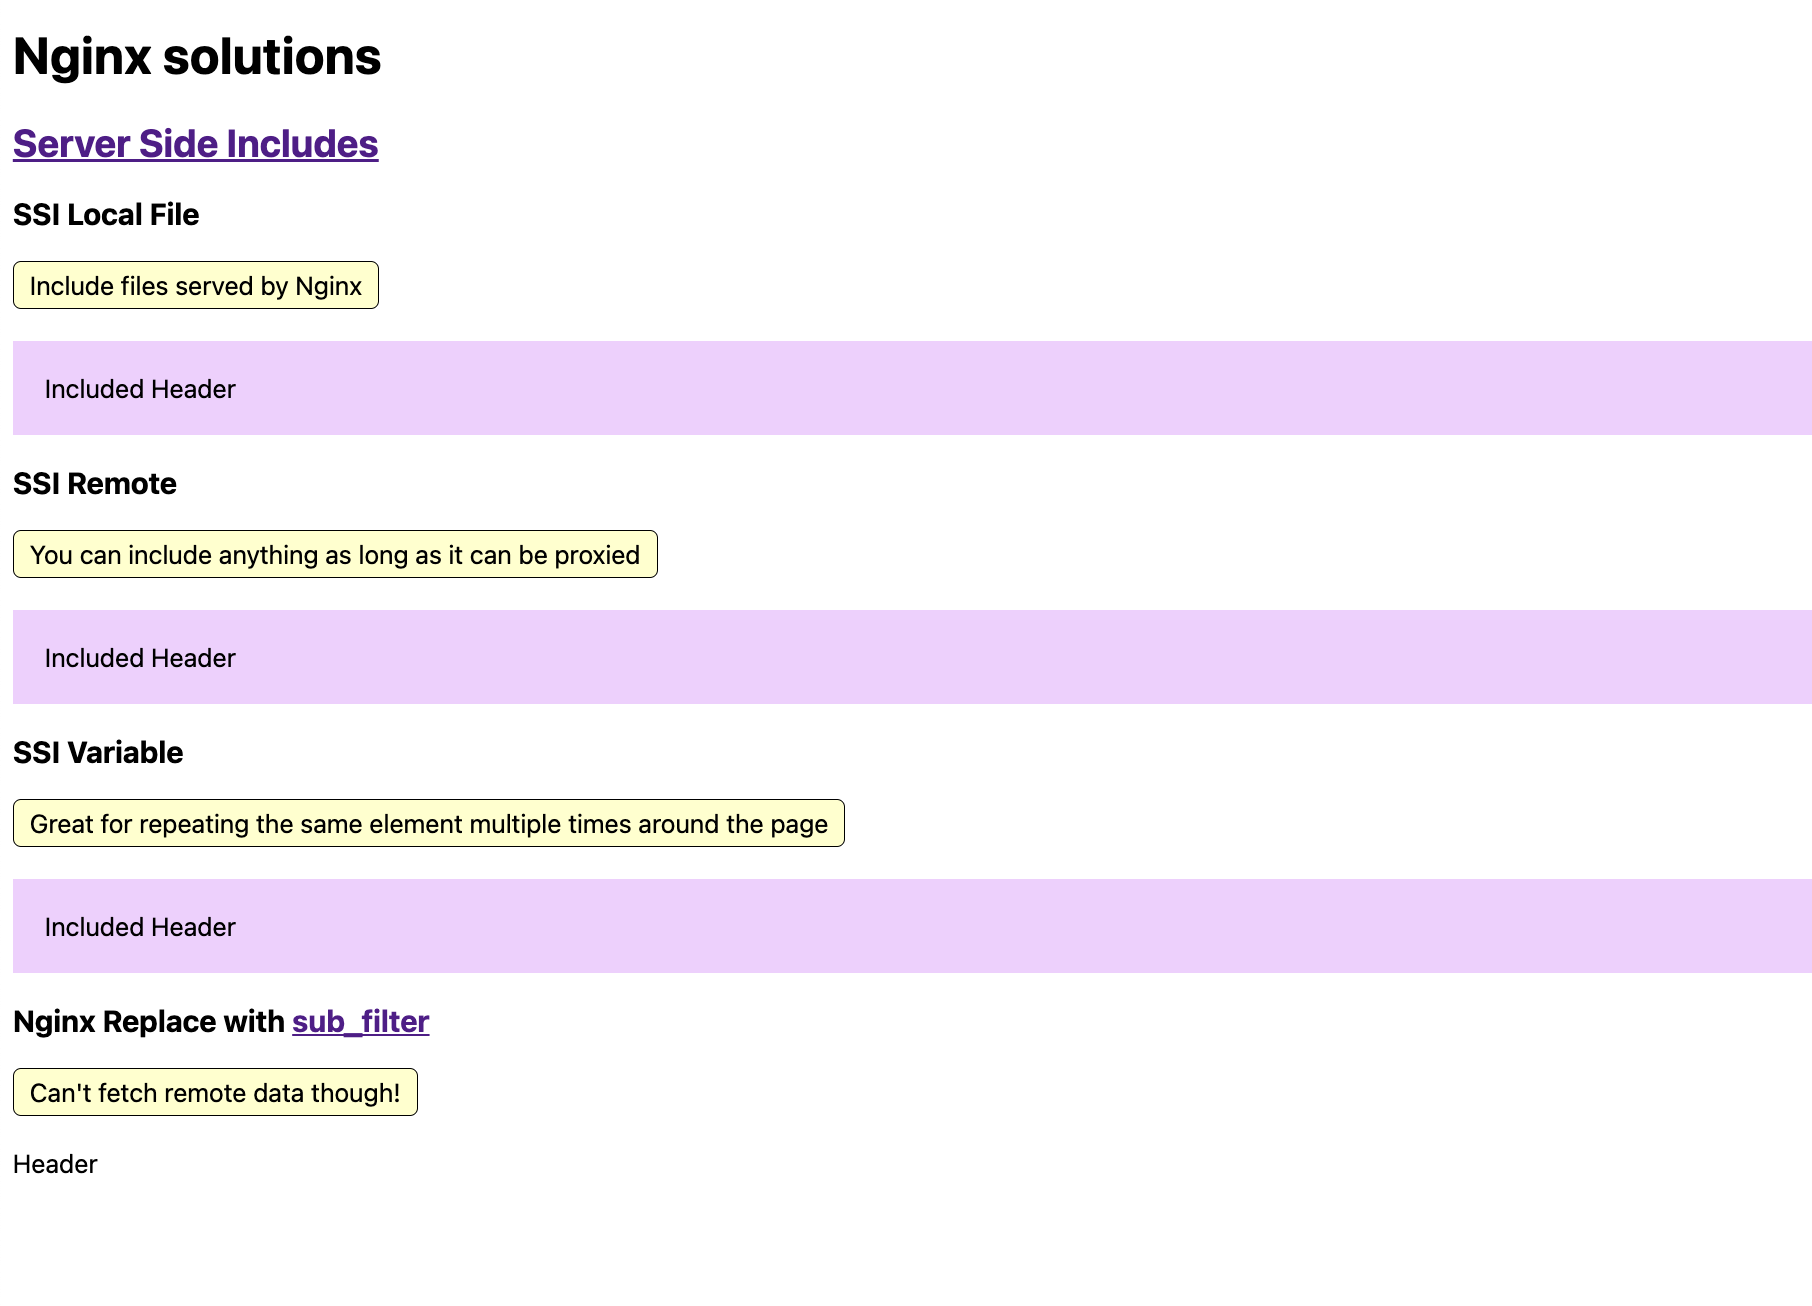
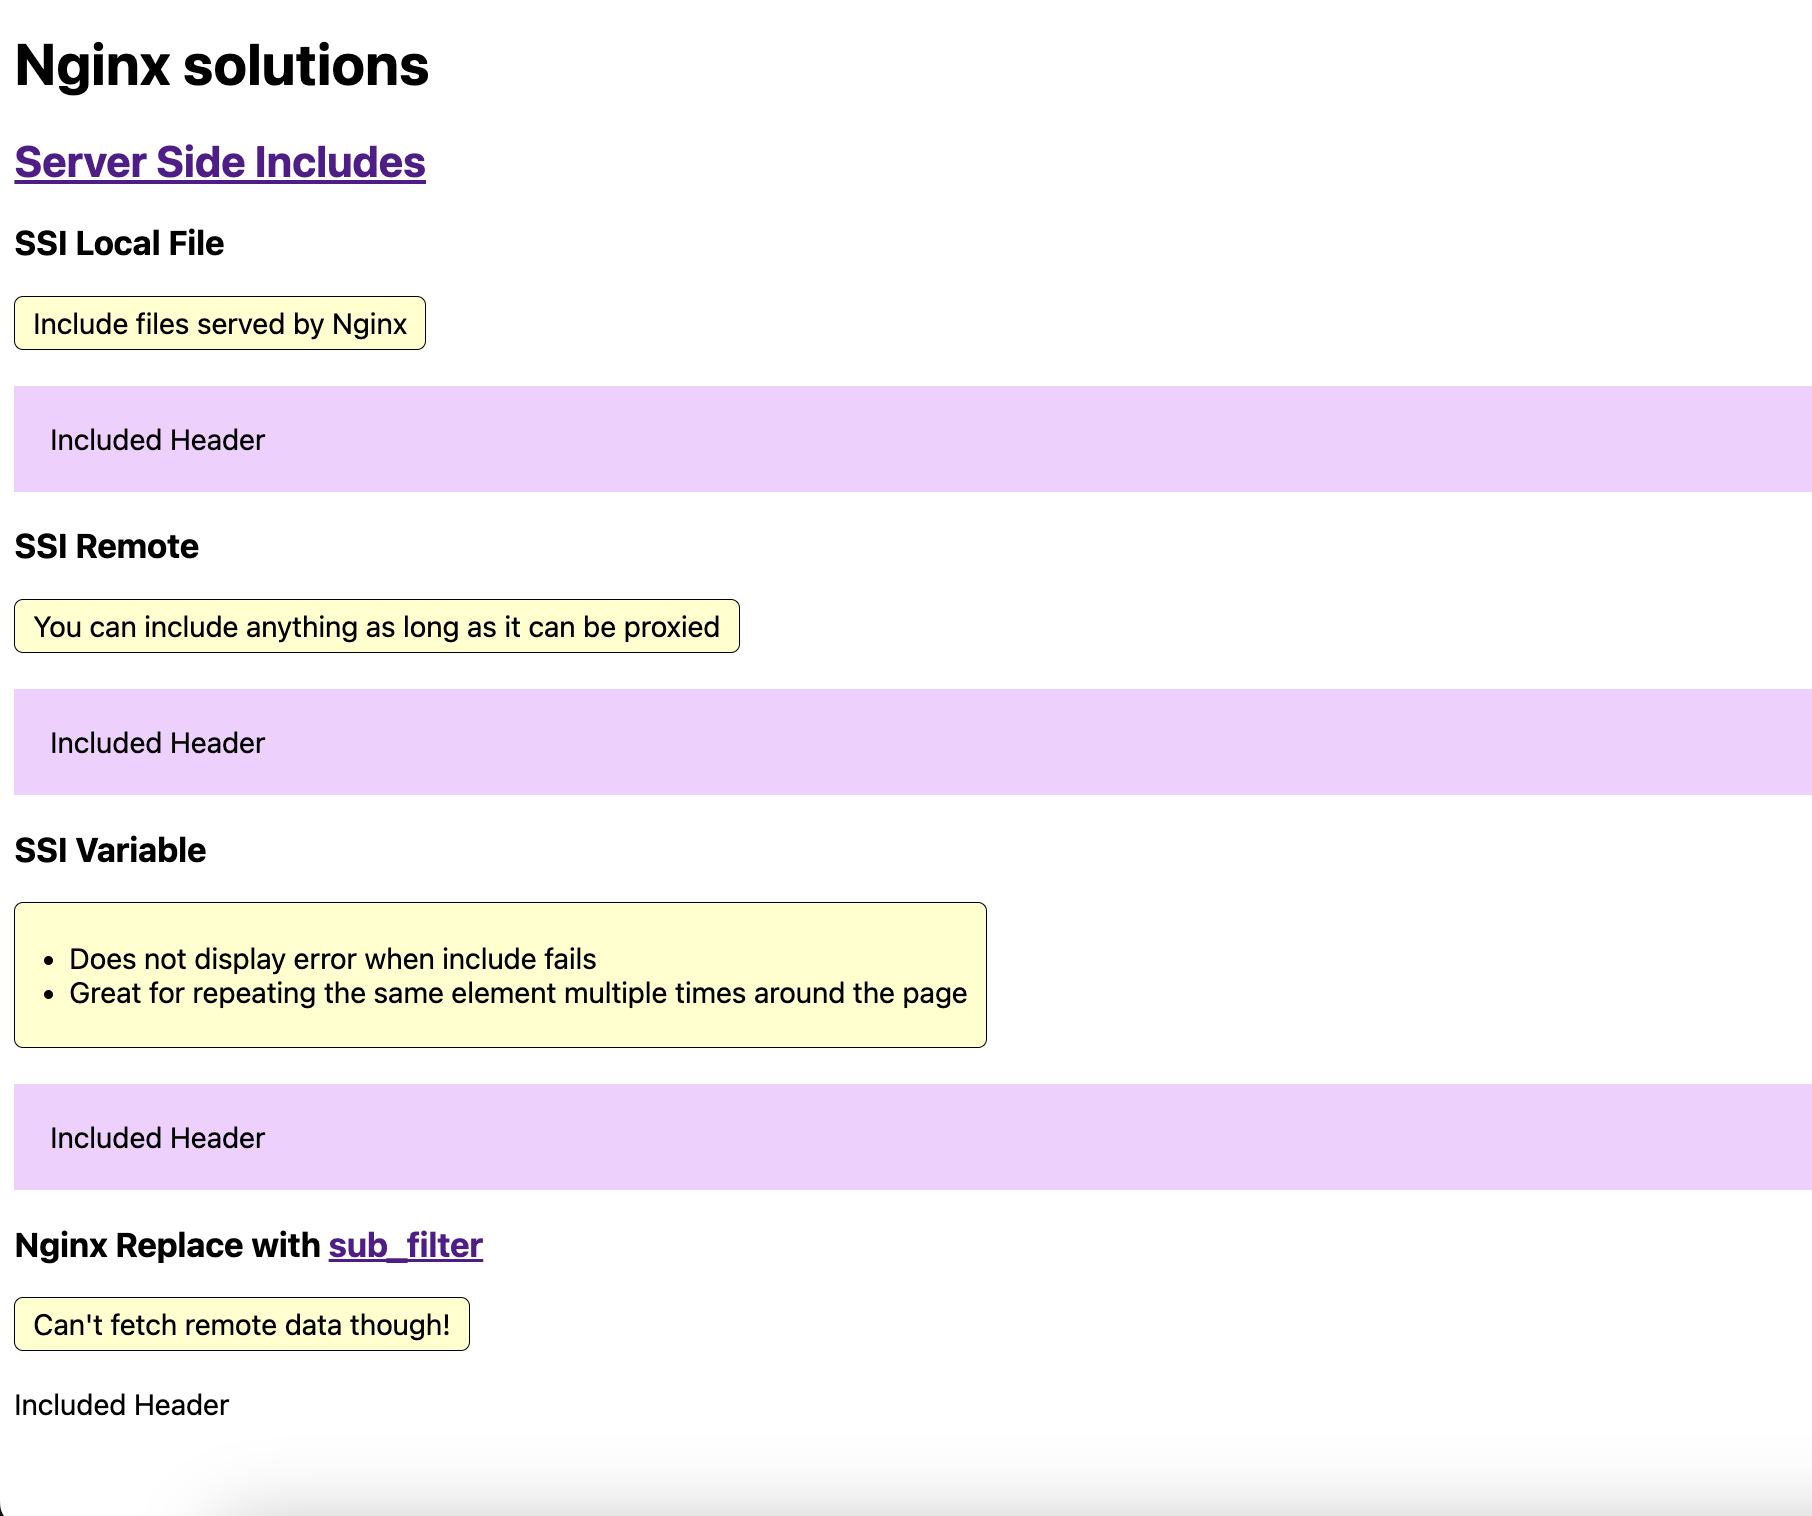
update ssi variable description

Changed region(s): [[0.0, 0.1531, 1.0, 0.9495], [0.0, 0.0919, 0.2472, 0.1225], [0.0, 0.0306, 0.2472, 0.0613]]

diff --git a/nginx/index.html b/nginx/index.html
@@ -28,6 +28,10 @@
         background: #62af62;
         padding: 100px 20px;
       }
+
+      ul {
+        padding-left: 20px;
+      }
     </style>
   </head>
   <body>
@@ -47,9 +51,12 @@
     <!--#include virtual="/header-proxy" -->
 
     <h3>SSI Variable</h3>
-    <p class="info">
-      Great for repeating the same element multiple times around the page
-    </p>
+    <div class="info">
+      <ul>
+        <li>Does not display error when include fails</li>
+        <li>Great for repeating the same element multiple times around the page</li>
+      </ul>
+    </div>
     <!--# block name="variable" --><!--# endblock -->
     <!--# include virtual="/header-proxy" stub="variable" -->
 
